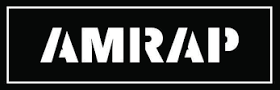
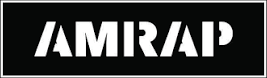
fix(app): wordmark crop is the frame's outer edge
brand-mark.png kept 6-8 px of black margin around the frame, so on
sign-in and in the top bar the frame sat visibly inset from the page
text. The crop is now the frame's outer edge (267 x 78, its first and
last rows and columns are the frame line's anti-aliased edge), so the
frame lines up with the h1, h2 and labels. The image is now the frame,
so the top bar shows it at 1.75 rem, the 28 px the design asks for.
The icons are resampled from the mark, so they are regenerated with
the matching sizes (378 of 512 px, corners at 38.3 %).

diff --git a/app/src/pages/shared/BrandMark.tsx b/app/src/pages/shared/BrandMark.tsx
@@ -2,6 +2,6 @@ import { t } from '../../i18n';
 
 export function BrandMark() {
   return (
-    <img className="brand-mark" src="/brand-mark.png" alt={t.app.name} width={280} height={90} />
+    <img className="brand-mark" src="/brand-mark.png" alt={t.app.name} width={267} height={78} />
   );
 }

diff --git a/app/src/styles.css b/app/src/styles.css
@@ -362,7 +362,7 @@ input[type='checkbox'] {
 .brand-mark {
   display: block;
   width: auto;
-  height: 2rem;
+  height: 1.75rem;
   filter: var(--mark-filter);
 }
 

diff --git a/docs/app-structure.md b/docs/app-structure.md
@@ -73,16 +73,18 @@ black) with macOS `sips`, so no image tool is added to the build
 
 | File | Command | Used by |
 |---|---|---|
-| `brand-mark.png` (280 × 90) | `sips -c 90 280 --cropOffset 166 84 public/logo.png --out public/brand-mark.png` | `pages/shared/BrandMark.tsx`: the top bar (2 rem high) and the `h1` of `/login` and `/invite/:token` (3 rem), alt text `app.name` |
-| `icon-512.png` | `sips -Z 400 public/brand-mark.png --out public/icon-512.png && sips -p 512 512 --padColor 060807 public/icon-512.png` | the manifest (`any` and `maskable`) |
-| `icon-192.png` | `sips -Z 150 public/brand-mark.png --out public/icon-192.png && sips -p 192 192 --padColor 060807 public/icon-192.png` | the manifest, the favicon and `apple-touch-icon` |
+| `brand-mark.png` (267 × 78) | `sips -c 78 267 --cropOffset 172 90 public/logo.png --out public/brand-mark.png` | `pages/shared/BrandMark.tsx`: the top bar (1.75 rem high) and the `h1` of `/login` and `/invite/:token` (3 rem), alt text `app.name` |
+| `icon-512.png` | `sips -Z 380 public/brand-mark.png --out public/icon-512.png && sips -p 512 512 --padColor 060807 public/icon-512.png` | the manifest (`any` and `maskable`) |
+| `icon-192.png` | `sips -Z 142 public/brand-mark.png --out public/icon-192.png && sips -p 192 192 --padColor 060807 public/icon-192.png` | the manifest, the favicon and `apple-touch-icon` |
 
-`sips -c` and `-p` take height then width, and `--cropOffset` y then x. The crop keeps the frame
-with a 6-8 px margin on every side. The logo's black is `#060807`, not pure black: the icons are
+`sips -c` and `-p` take height then width, and `--cropOffset` y then x. The crop is the frame's
+outer edge (its first and last row and column are the frame line's anti-aliased edge), so the
+frame lines up with the page text and the frame is exactly the image height on screen (28 px in
+the top bar). The frame line is about 3 px in the image, about 1 CSS px in the top bar. The logo's black is `#060807`, not pure black: the icons are
 padded with that colour so there is no seam, and `filter: var(--mark-filter)` on the mark adds
 `contrast(1.1)`, which takes it to `#000000` on black paper (the light theme also inverts it,
-so it is black on white). In the icons the wordmark is about 380 px of 512, its corners at
-38.5 % of the size from the centre, inside the 40 % maskable safe zone. The manifest's
+so it is black on white). In the icons the wordmark is 378 px of 512, its corners at
+38.3 % of the size from the centre, inside the 40 % maskable safe zone. The manifest's
 `background_color` is black (the splash screen matches the icon) and `theme_color` the light
 paper; at run time the `theme-color` meta tags follow the theme ([Theme](#theme)).
 
